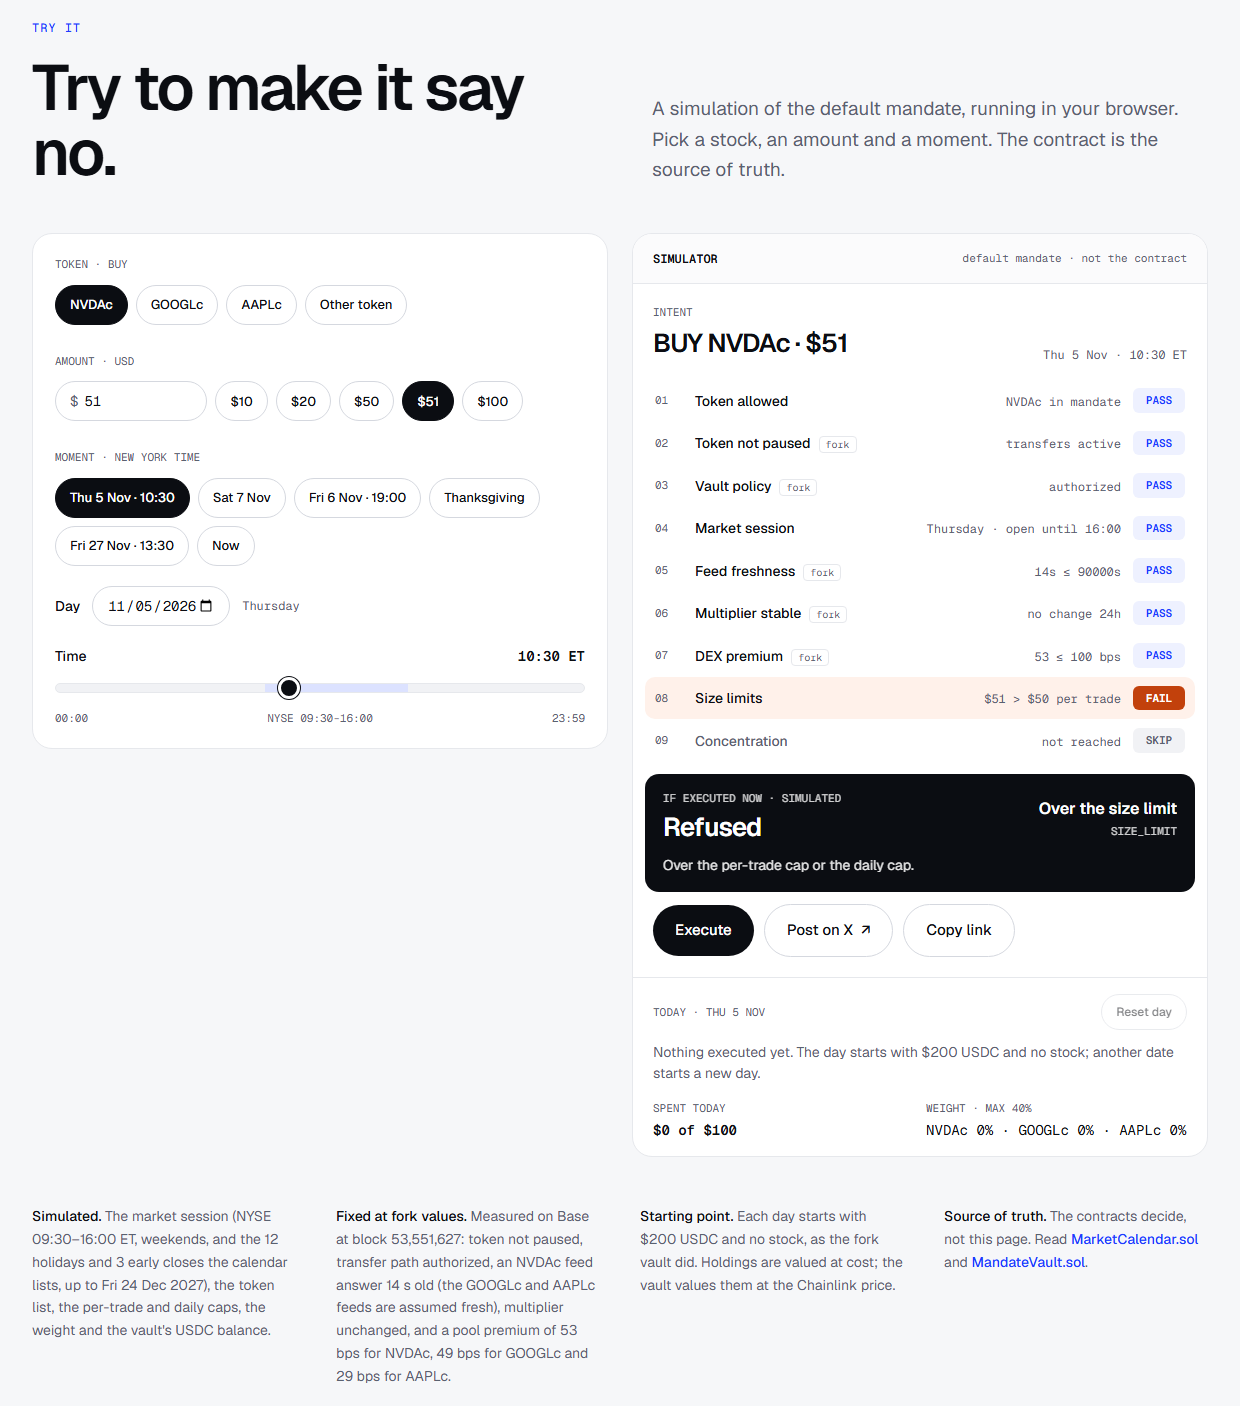
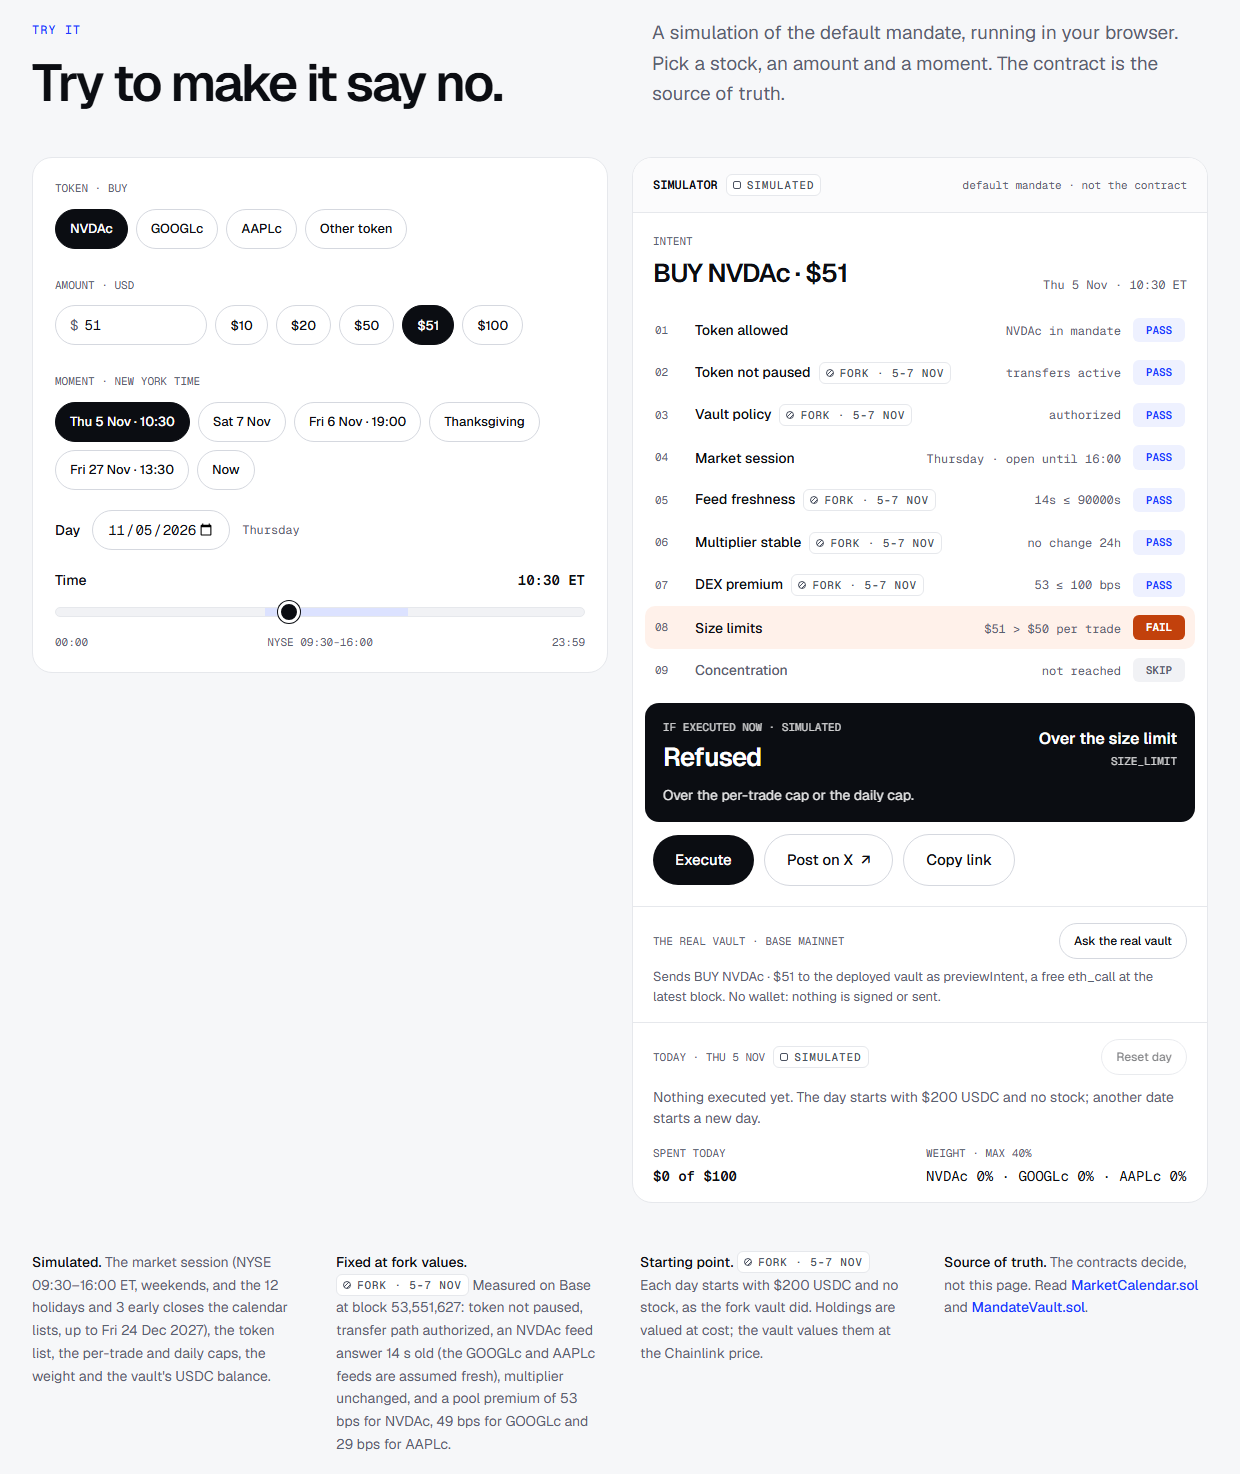
docs(readme): retake the fork ledger from /ledger#fork, and the simulator with its badges
The README's fork-ledger.png showed the landing section this branch removes, headed "Every answer is public. Especially
no.". It is retaken from /ledger#fork, "The fork run" with its fork badge, and its alt text and caption say so. The
simulator shot is retaken the same way (the recipe in plans/2026-11-20-readable-refusals-pr1.md) and now shows its
simulated and fork badges.

diff --git a/README.md b/README.md
@@ -119,10 +119,11 @@ Named for Ma'at, whose feather every heart was weighed against. Here the feather
 
 <p align="center">
   <a href="docs/assets/readme/simulator-size-limit.png"><img src="docs/assets/readme/simulator-size-limit.png" width="49%" alt="The Try to make it say no simulator. A BUY of NVDAc for $51 on Thu 5 Nov at 10:30 ET passes checks 01 to 07, fails check 08 Size limits because $51 is over the $50 per-trade cap, skips check 09, and shows the simulated result Refused: Over the size limit (SIZE_LIMIT)."></a>
-  <a href="docs/assets/readme/fork-ledger.png"><img src="docs/assets/readme/fork-ledger.png" width="49%" alt="The decision ledger, headed Every answer is public. Especially no. Four rows: BUY NVDAc $20, Allowed · All checks passed (OK), gas 758,192; SUPPLY NVDAc $15, Allowed · All checks passed (OK), 286,707; BORROW USDC $5, Allowed · All checks passed (OK), 484,173; BUY GOOGLc $10 on Sat 7 Nov, Refused · Market closed (MARKET_CLOSED), 111,116. A note says the rows were recorded on a fork of Base mainnet at block 53,551,627."></a>
+  <a href="docs/assets/readme/fork-ledger.png"><img src="docs/assets/readme/fork-ledger.png" width="49%" alt="The fork run's ledger on the mainnet ledger page, /ledger#fork, headed Before mainnet, The fork run, with a fork · 5-7 Nov badge. Four rows: BUY NVDAc $20, Allowed · All checks passed (OK), gas 758,192; SUPPLY NVDAc $15, Allowed · All checks passed (OK), 286,707; BORROW USDC $5, Allowed · All checks passed (OK), 484,173; BUY GOOGLc $10 on Sat 7 Nov, Refused · Market closed (MARKET_CLOSED), 111,116. A note says the rows were recorded on a fork of Base mainnet at block 53,551,627, and that the vault's mainnet decisions are in the mainnet ledger above."></a>
 </p>
 
-Left: the simulator refusing a $51 buy as over the size limit (`SIZE_LIMIT`). Right: the fork ledger.
+Left: the simulator refusing a $51 buy as over the size limit (`SIZE_LIMIT`). Right: the fork ledger, on
+[`/ledger#fork`](https://maatonbase.xyz/ledger#fork).
 
 ## By track: Agentic Stock Finance
 
